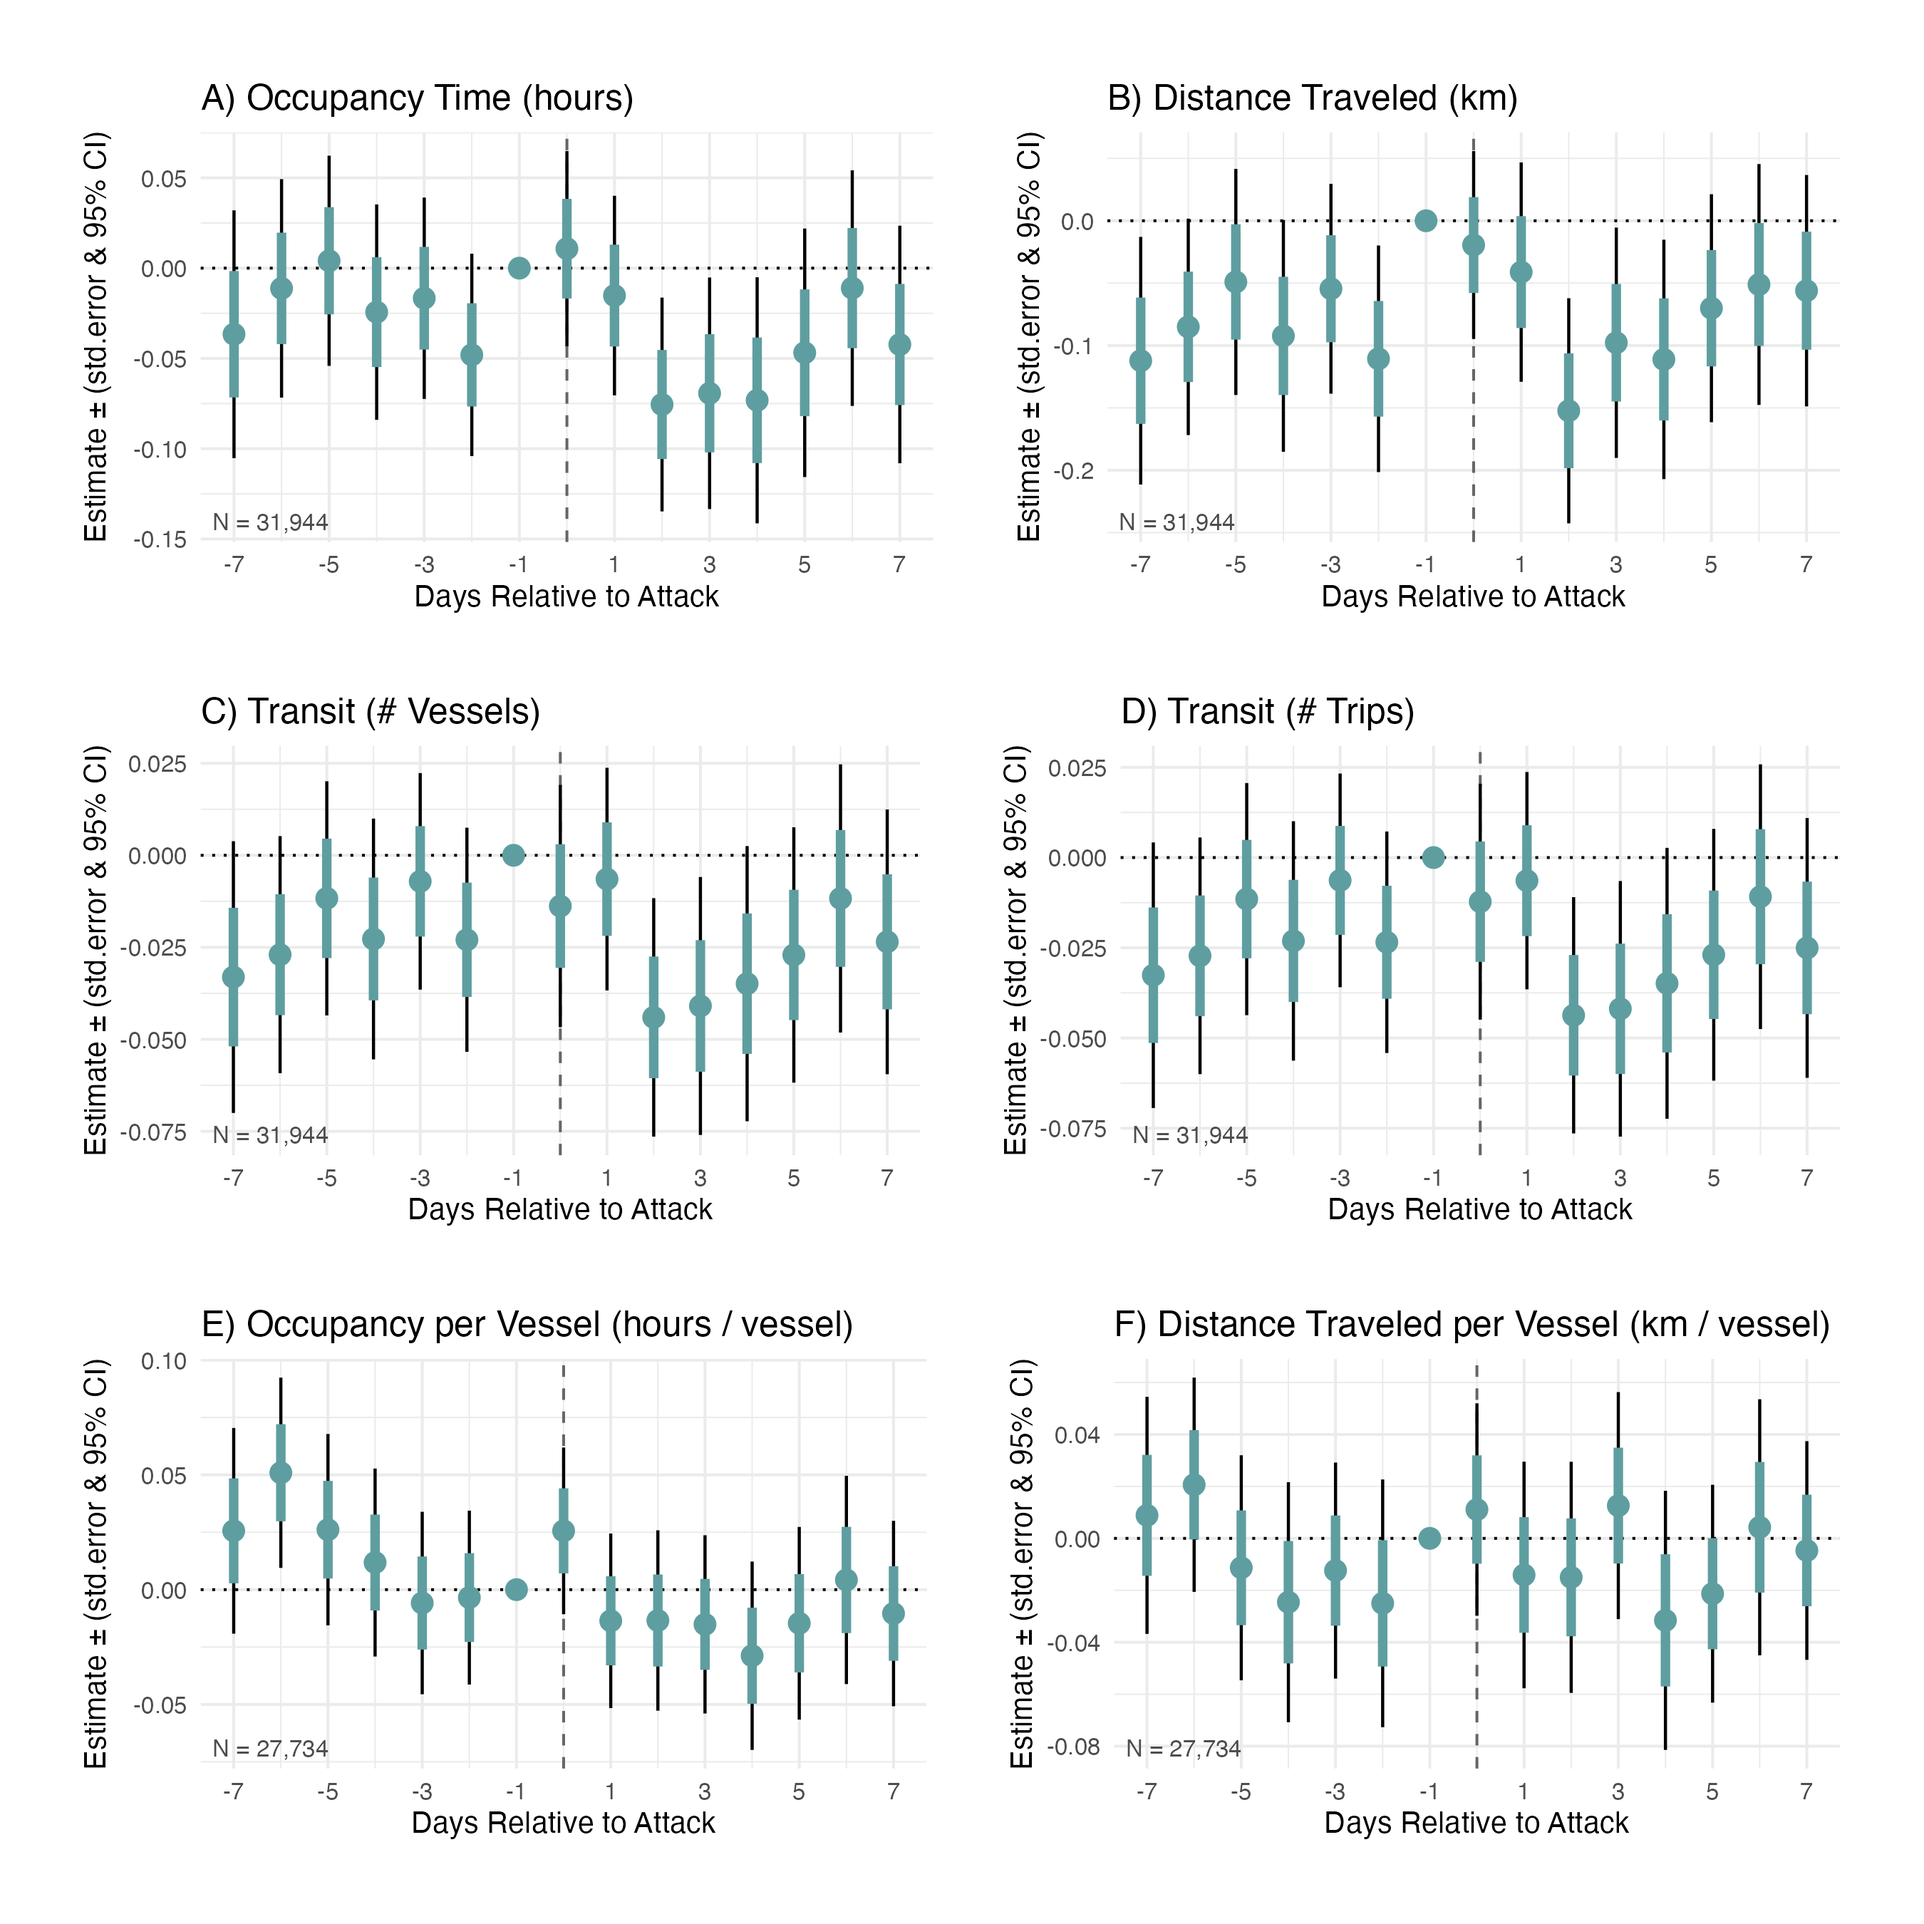
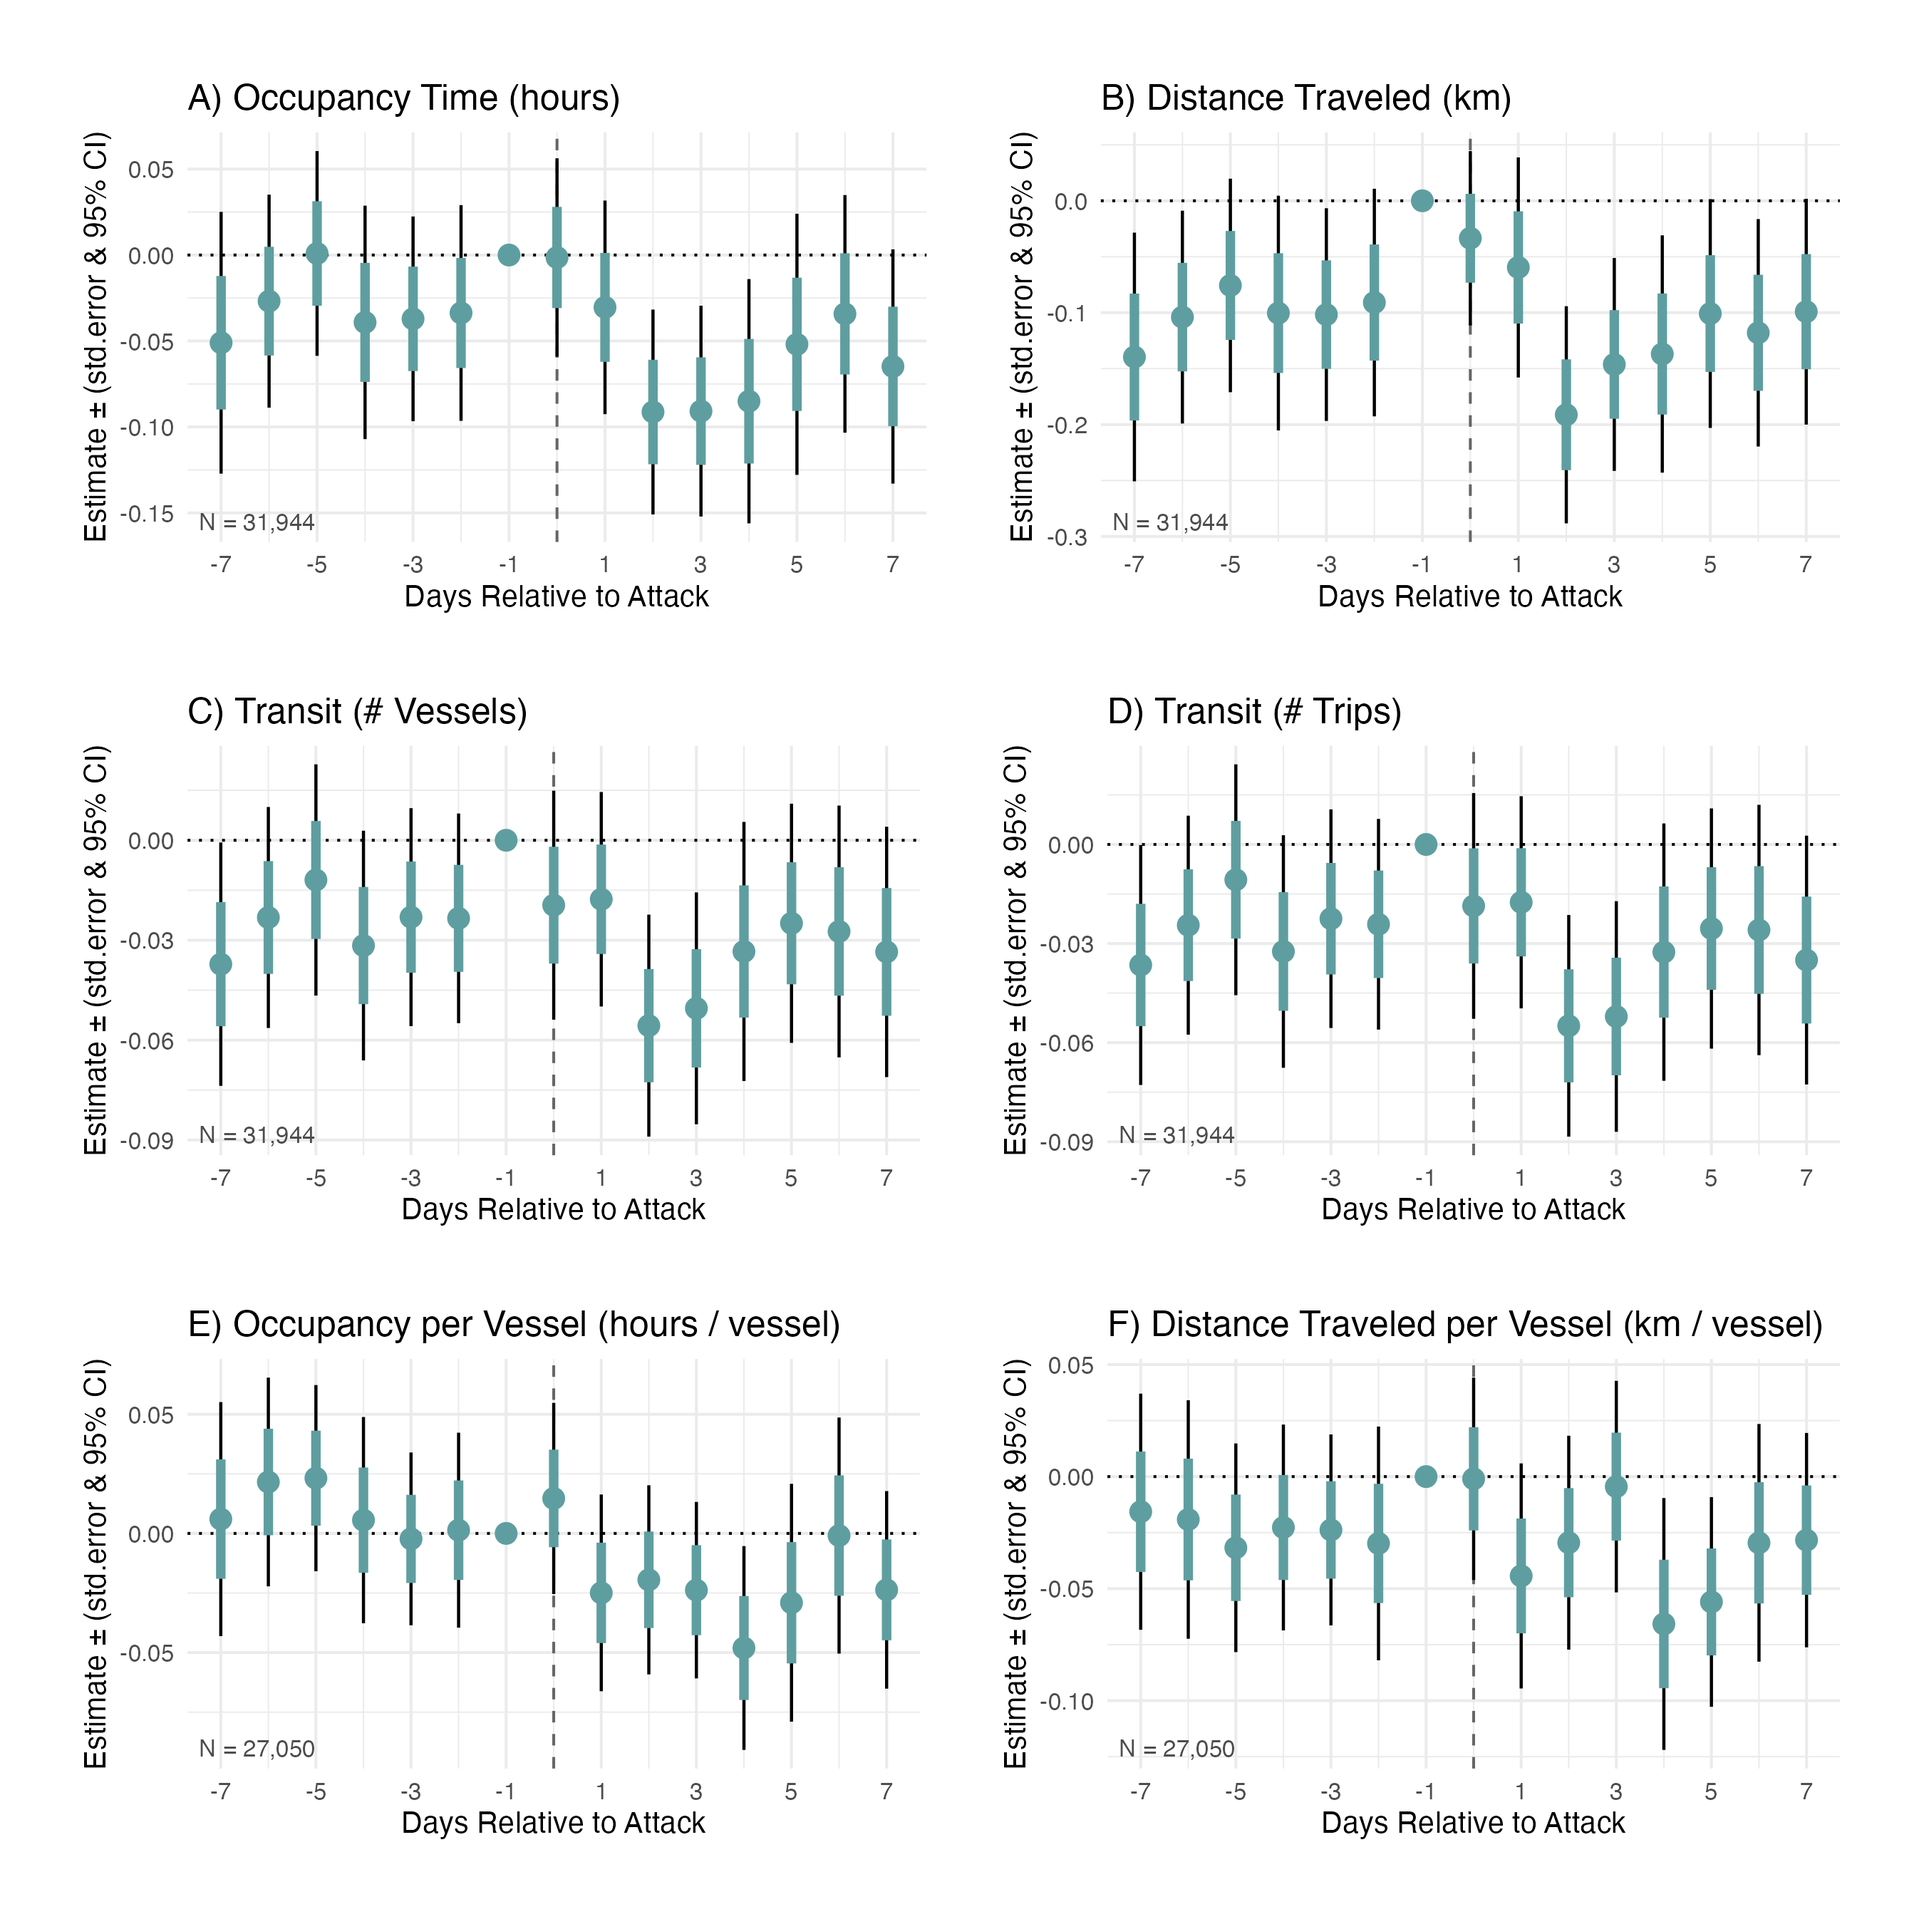
Updating figures and tables

diff --git a/results/figures_and_tables/cell_post_regression.tex b/results/figures_and_tables/cell_post_regression.tex
@@ -9,34 +9,34 @@
 \midrule
 \addlinespace[0.5em]
 \multicolumn{5}{l}{\textit{Panel (A): Occupancy Time (hours)}}\\
-\midrule \hspace{1em}Post-Attack & -0.013 & 0.079 & -0.098* & 0.070**\\
-\hspace{1em} & (0.019) & (0.080) & (0.054) & (0.030)\\
+\midrule \hspace{1em}Post-Attack & -0.021 & 0.065 & -0.112** & 0.066**\\
+\hspace{1em} & (0.020) & (0.076) & (0.055) & (0.031)\\
 \hspace{1em}Observations & 31,944 & 2,413 & 8,181 & \vphantom{3} 11,268\\
 \addlinespace[0.5em]
 \multicolumn{5}{l}{\textit{Panel (B): Distance Traveled (km)}}\\
-\midrule \hspace{1em}Post-Attack & 0.003 & 0.092 & -0.087 & 0.092**\\
-\hspace{1em} & (0.022) & (0.159) & (0.056) & (0.041)\\
+\midrule \hspace{1em}Post-Attack & -0.014 & 0.062 & -0.097* & 0.067*\\
+\hspace{1em} & (0.024) & (0.156) & (0.059) & (0.038)\\
 \hspace{1em}Observations & 31,944 & 2,413 & 8,181 & \vphantom{2} 11,268\\
 \addlinespace[0.5em]
 \multicolumn{5}{l}{\textit{Panel (C): Transit (\# Vessels)}}\\
-\midrule \hspace{1em}Post-Attack & -0.007 & 0.025 & -0.071*** & 0.056***\\
-\hspace{1em} & (0.010) & (0.044) & (0.024) & \vphantom{1} (0.014)\\
+\midrule \hspace{1em}Post-Attack & -0.010 & 0.025 & -0.073*** & 0.052***\\
+\hspace{1em} & (0.011) & (0.043) & (0.025) & \vphantom{1} (0.014)\\
 \hspace{1em}Observations & 31,944 & 2,413 & 8,181 & \vphantom{1} 11,268\\
 \addlinespace[0.5em]
 \multicolumn{5}{l}{\textit{Panel (D): Transit (\# Voyages)}}\\
-\midrule \hspace{1em}Post-Attack & -0.006 & 0.023 & -0.069*** & 0.056***\\
-\hspace{1em} & (0.010) & (0.044) & (0.024) & (0.014)\\
+\midrule \hspace{1em}Post-Attack & -0.010 & 0.023 & -0.072*** & 0.052***\\
+\hspace{1em} & (0.011) & (0.043) & (0.025) & (0.014)\\
 \hspace{1em}Observations & 31,944 & 2,413 & 8,181 & 11,268\\
 \addlinespace[0.5em]
 \multicolumn{5}{l}{\textit{Panel (E): Occupancy per Vessel (hours / vessel)}}\\
-\midrule \hspace{1em}Post-Attack & -0.016 & -0.012 & -0.028 & -0.007\\
-\hspace{1em} & (0.011) & (0.051) & (0.026) & (0.019)\\
-\hspace{1em}Observations & 27,734 & 1,511 & 6,931 & \vphantom{1} 10,118\\
+\midrule \hspace{1em}Post-Attack & -0.021 & -0.030 & -0.034 & -0.005\\
+\hspace{1em} & (0.013) & (0.052) & (0.026) & (0.023)\\
+\hspace{1em}Observations & 27,050 & 1,479 & 6,818 & \vphantom{1} 9,657\\
 \addlinespace[0.5em]
 \multicolumn{5}{l}{\textit{Panel (F): Distance Traveled per Vessel (km / vessel)}}\\
-\midrule \hspace{1em}Post-Attack & 0.003 & -0.076 & 0.046 & -0.002\\
-\hspace{1em} & (0.013) & (0.084) & (0.033) & (0.026)\\
-\hspace{1em}Observations & 27,734 & 1,511 & 6,931 & 10,118\\
+\midrule \hspace{1em}Post-Attack & -0.006 & -0.099 & 0.043 & -0.007\\
+\hspace{1em} & (0.016) & (0.076) & (0.033) & (0.024)\\
+\hspace{1em}Observations & 27,050 & 1,479 & 6,818 & 9,657\\
 \bottomrule
 \end{tabular}
 \begin{tablenotes}

diff --git a/results/figures_and_tables/cell_post_regression_spec_buildup.tex b/results/figures_and_tables/cell_post_regression_spec_buildup.tex
@@ -9,34 +9,34 @@
 \midrule
 \addlinespace[0.5em]
 \multicolumn{4}{l}{\textit{Panel (A): Occupancy Time (hours)}}\\
-\midrule \hspace{1em}Post-Attack & -0.024* & -0.020 & -0.013\\
-\hspace{1em} & (0.014) & (0.016) & (0.019)\\
+\midrule \hspace{1em}Post-Attack & -0.030* & -0.029* & -0.021\\
+\hspace{1em} & (0.016) & (0.017) & (0.020)\\
 \hspace{1em}Observations & 32,129 & 32,011 & \vphantom{3} 31,944\\
 \addlinespace[0.5em]
 \multicolumn{4}{l}{\textit{Panel (B): Distance Traveled (km)}}\\
-\midrule \hspace{1em}Post-Attack & -0.007 & -0.005 & 0.003\\
-\hspace{1em} & (0.018) & (0.018) & (0.022)\\
+\midrule \hspace{1em}Post-Attack & -0.023 & -0.022 & -0.014\\
+\hspace{1em} & (0.020) & (0.021) & (0.024)\\
 \hspace{1em}Observations & 32,129 & 32,011 & \vphantom{2} 31,944\\
 \addlinespace[0.5em]
 \multicolumn{4}{l}{\textit{Panel (C): Transit (\# Vessels)}}\\
-\midrule \hspace{1em}Post-Attack & -0.011 & -0.010 & -0.007\\
-\hspace{1em} & (0.009) & (0.009) & \vphantom{1} (0.010)\\
+\midrule \hspace{1em}Post-Attack & -0.016 & -0.016 & -0.010\\
+\hspace{1em} & (0.012) & (0.010) & \vphantom{1} (0.011)\\
 \hspace{1em}Observations & 32,129 & 32,011 & \vphantom{1} 31,944\\
 \addlinespace[0.5em]
 \multicolumn{4}{l}{\textit{Panel (D): Transit (\# Voyages)}}\\
-\midrule \hspace{1em}Post-Attack & -0.011 & -0.011 & -0.006\\
-\hspace{1em} & (0.009) & (0.009) & (0.010)\\
+\midrule \hspace{1em}Post-Attack & -0.015 & -0.016 & -0.010\\
+\hspace{1em} & (0.012) & (0.010) & (0.011)\\
 \hspace{1em}Observations & 32,129 & 32,011 & 31,944\\
 \addlinespace[0.5em]
 \multicolumn{4}{l}{\textit{Panel (E): Occupancy per Vessel (hours / vessel)}}\\
-\midrule \hspace{1em}Post-Attack & -0.020** & -0.018* & -0.016\\
-\hspace{1em} & (0.009) & (0.010) & (0.011)\\
-\hspace{1em}Observations & 27,959 & 27,805 & \vphantom{1} 27,734\\
+\midrule \hspace{1em}Post-Attack & -0.017* & -0.020* & -0.021\\
+\hspace{1em} & (0.010) & (0.011) & (0.013)\\
+\hspace{1em}Observations & 27,287 & 27,130 & \vphantom{1} 27,050\\
 \addlinespace[0.5em]
 \multicolumn{4}{l}{\textit{Panel (F): Distance Traveled per Vessel (km / vessel)}}\\
-\midrule \hspace{1em}Post-Attack & -0.002 & 0.002 & 0.003\\
-\hspace{1em} & (0.011) & (0.011) & (0.013)\\
-\hspace{1em}Observations & 27,959 & 27,805 & 27,734\\
+\midrule \hspace{1em}Post-Attack & -0.003 & -0.002 & -0.006\\
+\hspace{1em} & (0.013) & (0.013) & (0.016)\\
+\hspace{1em}Observations & 27,287 & 27,130 & 27,050\\
 \bottomrule
 \end{tabular}
 \begin{tablenotes}
